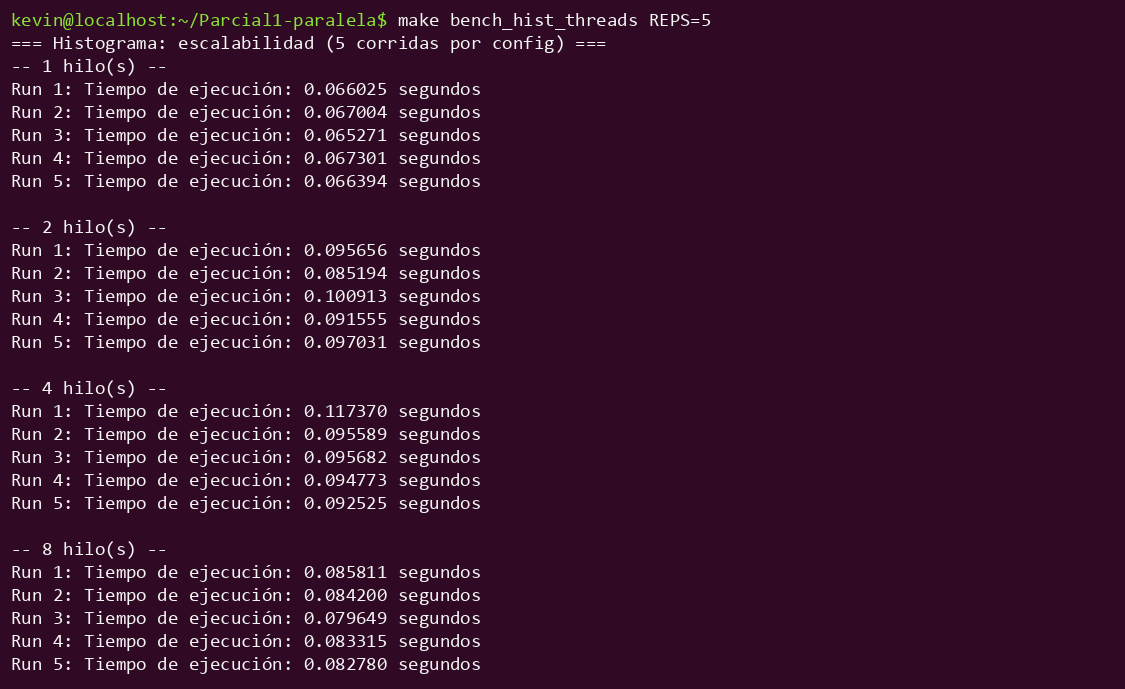
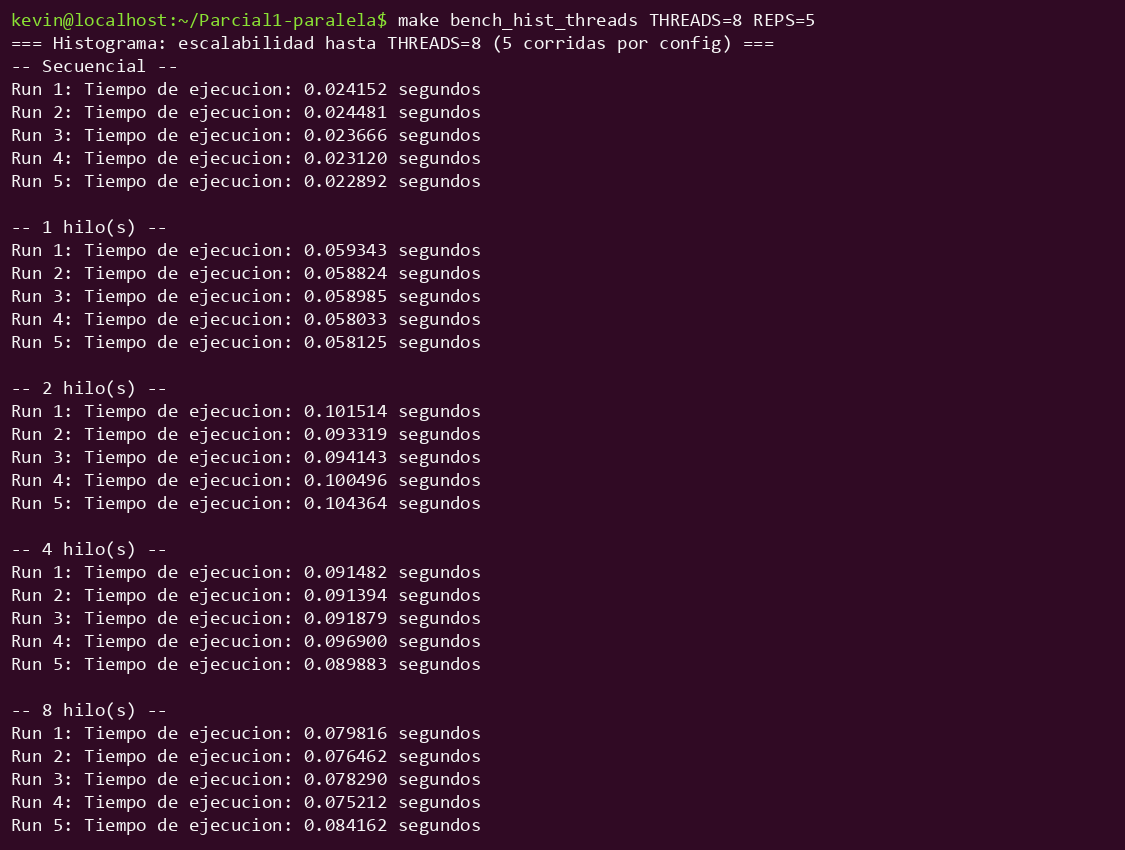
docs: normalizar metricas y benchmarks

Changed region(s): [[0.0, 0.0, 0.7156, 1.0]]

diff --git a/secuencial/histograma_secuencial.c b/secuencial/histograma_secuencial.c
@@ -1,3 +1,5 @@
+#define _POSIX_C_SOURCE 200809L
+
 #include <stdio.h>
 #include <stdlib.h>
 #include <time.h>
@@ -21,7 +23,9 @@ int main() {
         arreglo[j] = ((float)rand() / RAND_MAX) * 100.0f;
     }
 
-    clock_t inicio = clock();
+    struct timespec inicio;
+    struct timespec fin;
+    clock_gettime(CLOCK_MONOTONIC, &inicio);
 
     // PRIMER CICLO 
   
@@ -50,8 +54,9 @@ int main() {
     }
 
 
-    clock_t fin = clock();
-    double tiempo = (double)(fin - inicio) / CLOCKS_PER_SEC;
+    clock_gettime(CLOCK_MONOTONIC, &fin);
+    double tiempo = (fin.tv_sec - inicio.tv_sec) +
+                    (fin.tv_nsec - inicio.tv_nsec) / 1000000000.0;
 
 
     long total = 0;

diff --git a/docs/METRICAS_KEVIN.md b/docs/METRICAS_KEVIN.md
@@ -1,166 +1,114 @@
-# Métricas de Desempeño - Multiplicación de Matrices Densas
+# Métricas de desempeño de Kevin Villagrán
 
-**Estudiante:** Kevin Villagrán  
-**Fecha de Pruebas:** 2026-09-09  
-**Máquina:** Laptop Windows  
-**CPU:** 12th Gen Intel Core i7-12650H (10 cores físicos / 16 hilos lógicos)  
-**RAM:** 15.7 GB  
-**Sistema Operativo:** Windows 11 Home (10.0.26200)  
+Fecha de pruebas 2026-09-11
 
----
+Máquina Laptop Windows con WSL Ubuntu
 
-## Datos de Prueba
+CPU 12th Gen Intel Core i7-12650H con 10 núcleos físicos y 16 hilos lógicos
 
-- **N (dimensión de las matrices):** 1000 x 1000
-- **Elementos por matriz:** 1,000,000
-- **Operaciones:** 2 x N³ = 2,000,000,000 flops
-- **Tipo de dato:** `double`
-- **Generación:** `rand() % 10` con seed=42
-- **Algoritmo:** C = A x B, triple ciclo anidado (orden i-j-k) según el diagrama de flujo
-- **Descomposición:** por bloques de filas de C entre P trabajadores (`schedule(static)`)
+RAM 15.7 GB
+
+Sistema operativo Windows 11 Home
 
 ---
 
-## Resultados: Versión Secuencial
+# Histograma
 
-Baseline medido con el mismo binario ejecutado con **P=1 trabajador**, para que
-secuencial y paralelo compartan datos, compilador y banderas de optimización.
+## Datos de prueba
 
-| Métrica | Valor |
-|---------|-------|
-| Tiempo promedio (ms) | 588.804 |
-| Desv. Estándar (ms) | 16.444 |
-| Mínimo (ms) | 565.708 |
-| Máximo (ms) | 610.385 |
+- N de 10,000,000 elementos
+- 100 bins
+- Valores generados con `rand()` y semilla 42
+- 5 corridas por cada cantidad de hilos
+- Hilos probados 1, 2, 4 y 8
 
-### Detalles de ejecuciones
+## Resultados
 
+| Configuración | Tiempo promedio en segundos | Desv. estándar | Speedup | Eficiencia |
+|---|---|---|---|---|
+| Secuencial | 0.023662 | 0.000670 | Base | Base |
+| Paralelo P=1 | 0.058662 | 0.000565 | 0.403x | 40.34% |
+| Paralelo P=2 | 0.098767 | 0.004820 | 0.240x | 11.98% |
+| Paralelo P=4 | 0.092308 | 0.002677 | 0.256x | 6.41% |
+| Paralelo P=8 | 0.078788 | 0.003478 | 0.300x | 3.75% |
+
+## Captura
+
+![Corridas de histograma](./img/histogramaKevin.png)
+
+## Speedup y eficiencia
+
+Para cada punto se usó el tiempo promedio secuencial como base. El speedup se
+calculó con `Ts / Tp`. La eficiencia se calculó con `speedup / P × 100`.
+
+El secuencial tardó 0.023662 segundos en promedio. Con 8 hilos el paralelo
+tardó 0.078788 segundos. El speedup fue 0.300x. El paralelo quedó más lento en
+todas las cantidades de hilos medidas.
+
+El segundo recorrido actualiza solo 100 bins compartidos. `atomic` cuida los
+conteos. Varios hilos esperan cuando intentan sumar en el mismo bin. Por eso
+el tiempo paralelo no mejora para este programa.
+
+![Speedup de histograma](./graficas/histograma_speedup_kevin.png)
+
+![Eficiencia de histograma](./graficas/histograma_eficiencia_kevin.png)
+
+---
+
+# Matrices
+
+## Datos de prueba
+
+- Matrices de 1000 × 1000
+- 1,000,000 de elementos por matriz
+- Datos `double` generados con `rand() % 10` y semilla 42
+- 5 corridas por cada cantidad de trabajadores
+- Trabajadores probados 1, 2, 4 y 8
+
+## Resultados
+
+| Configuración | Tiempo promedio en segundos | Desv. estándar | Speedup | Eficiencia |
+|---|---|---|---|---|
+| Secuencial | 0.776906 | 0.145886 | Base | Base |
+| Paralelo P=1 | 0.756862 | 0.089570 | 1.026x | 102.65% |
+| Paralelo P=2 | 0.372490 | 0.020575 | 2.086x | 104.29% |
+| Paralelo P=4 | 0.254467 | 0.042495 | 3.053x | 76.33% |
+| Paralelo P=8 | 0.217223 | 0.017212 | 3.577x | 44.71% |
+
+## Captura
+
+![Corridas de matrices](./img/matricesKevin.png)
+
+## Speedup y eficiencia
+
+Para cada punto se usó el tiempo promedio secuencial como base. El speedup se
+calculó con `Ts / Tp`. La eficiencia se calculó con
+`speedup / P × 100`.
+
+El secuencial tardó 0.776906 segundos en promedio. Con 8 trabajadores el
+tiempo bajó a 0.217223 segundos. El speedup fue 3.577x. La curva medida sube
+al aumentar trabajadores, pero queda debajo de la línea ideal.
+
+Con 1 y 2 trabajadores la eficiencia medida pasó de 100 por ciento. Los
+tiempos cambian entre corridas por tareas del sistema, frecuencia del
+procesador y memoria. No significa que se aprovechó más de lo ideal.
+
+Cada trabajador escribe filas diferentes de la matriz resultado. Eso permite
+que el trabajo se reparta mejor que en el histograma. Con 8 trabajadores la
+eficiencia baja porque comparten memoria y todos leen la matriz B.
+
+![Speedup de matrices](./graficas/matrices_speedup_kevin.png)
+
+![Eficiencia de matrices](./graficas/matrices_eficiencia_kevin.png)
+
+El checksum fue 20258545518 en todas las configuraciones. Eso confirma que la
+matriz resultado fue la misma.
+
+---
+
+# Comandos usados
+
+```bash
+make bench_hist_threads REPS=5
+make bench_mat_reps N=1000 P=8 REPS=5
 ```
-Run 1: 565.708 ms
-Run 2: 584.953 ms
-Run 3: 596.643 ms
-Run 4: 610.385 ms
-Run 5: 586.329 ms
-```
-
----
-
-## Resultados: Versión Paralela (8 threads)
-
-| Métrica | Valor |
-|---------|-------|
-| Tiempo promedio (ms) | 167.290 |
-| Desv. Estándar (ms) | 14.456 |
-| Mínimo (ms) | 155.790 |
-| Máximo (ms) | 187.285 |
-| Speedup | 3.5197 |
-| Eficiencia | 0.4400 |
-
-### Detalles de ejecuciones
-
-```
-Run 1: 178.078 ms
-Run 2: 155.790 ms
-Run 3: 158.529 ms
-Run 4: 156.766 ms
-Run 5: 187.285 ms
-```
-
----
-
-## Escalabilidad: tiempo vs. número de trabajadores
-
-Promedio de 3 ejecuciones por configuración, N=1000.
-
-| P (trabajadores) | Tiempo (s) | Speedup | Eficiencia |
-|------------------|-----------|---------|------------|
-| 1  | 0.6107 | 1.000 | 100.0% |
-| 2  | 0.3165 | 1.930 | 96.5% |
-| 4  | 0.1975 | 3.093 | 77.3% |
-| 8  | 0.1473 | 4.147 | 51.8% |
-| 10 | 0.1603 | 3.810 | 38.1% |
-| 16 | 0.1979 | 3.087 | 19.3% |
-
-**Punto óptimo: P=8** (speedup 4.15x). A partir de ahí el rendimiento se degrada.
-
----
-
-## Análisis y Conclusiones
-
-### Speedup Observado
-
-**3.52x con 8 threads** — La versión paralela es **~3.5 veces MÁS RÁPIDA** que la secuencial,
-con un pico de **4.15x** en la medición de escalabilidad.
-
-A diferencia del histograma, aquí la paralelización **sí es rentable**, porque el trabajo
-por hilo (N²/P elementos, cada uno con N multiplicaciones) es órdenes de magnitud mayor
-que el overhead de crear los threads.
-
-### Razones del Desempeño
-
-**Factores Positivos (explican el speedup real):**
-- [x] **Cero sincronización en el ciclo caliente:** cada trabajador escribe únicamente las filas de C que le fueron asignadas, así que no hace falta `atomic` ni `critical`
-- [x] **B es de solo lectura:** compartida entre todos los hilos sin riesgo de condición de carrera
-- [x] **Granularidad gruesa:** con N=1000 y P=8, cada hilo hace 125 filas x 1000 columnas x 1000 productos = 125M operaciones, muy por encima del costo de crear el thread
-- [x] **Sin desbalance de carga:** todas las filas cuestan exactamente lo mismo, por lo que `schedule(static)` reparte perfecto y no hay hilos ociosos
-- [x] **Sin false sharing:** los bloques de filas son contiguos y grandes, cada hilo trabaja en líneas de cache distintas
-- [x] **Resultados idénticos en ambas versiones** (checksum = 20,224,732,496 en las 10 ejecuciones)
-
-**Factores Negativos (explican por qué no llega a 8x):**
-- [x] **Límite de ancho de banda de memoria:** el acceso `B[k*n+j]` recorre B por columnas, saltando N*8 bytes por iteración; los hilos saturan el bus de memoria antes de saturar los cores
-- [x] **Cores híbridos (P-cores + E-cores):** el i7-12650H tiene 6 P-cores y 4 E-cores; los E-cores son más lentos y con `schedule(static)` reciben la misma cantidad de filas, así que los P-cores terminan y esperan en la barrera
-- [x] **Hyperthreading no aporta:** de P=10 a P=16 se usan hilos lógicos que comparten unidades de ejecución, y el tiempo empeora (0.160 s → 0.198 s)
-
-### ¿Por qué la eficiencia cae de 96.5% a 19.3%?
-
-1. **P=2 y P=4 escalan casi ideal** (96.5% y 77.3%): hay P-cores físicos libres y ancho de banda suficiente.
-
-2. **P=8 ya cruza al territorio de E-cores** (51.8%): la barrera implícita del `parallel for` hace que todos esperen al hilo más lento.
-   ```
-   Speedup ideal con 8:  8.00x
-   Speedup obtenido:     4.15x
-   Pérdida:              núcleos heterogéneos + ancho de banda
-   ```
-
-3. **P=16 usa hyperthreading** (19.3%): dos hilos por core físico compiten por la misma FPU, sin ganancia real y con más overhead de scheduling.
-
----
-
-## Conclusión
-
-El análisis demuestra que **la paralelización es técnicamente correcta y económicamente rentable** para este problema. Es el caso opuesto al histograma: aquí la razón trabajo/overhead es alta y no existe contención entre hilos, así que el speedup es real y sostenido.
-
-### Recomendaciones para mejorar
-
-1. **Cambiar el orden de ciclos a i-k-j** → B se recorre por filas (secuencial en memoria) en vez de por columnas, mejorando el uso de cache drásticamente
-   ```c
-   // En lugar de acumular en 'suma' con B[k*n+j] saltando por columnas:
-   for (int k = 0; k < n; k++) {
-       double a = A[fila*n + k];
-       for (int j = 0; j < n; j++)
-           C[fila*n + j] += a * B[k*n + j];   // acceso contiguo a B
-   }
-   ```
-2. **Usar `schedule(dynamic)` o `guided`** → compensa que los E-cores sean más lentos que los P-cores
-3. **Bloqueo por tiles (cache blocking)** → dividir en submatrices que quepan en L2 para reducir el tráfico a RAM
-4. **Limitar a P=8** en esta máquina → es el punto óptimo; más threads empeoran el tiempo
-5. **Aumentar N a 2000-4000** → más trabajo por hilo amortiza aún mejor el overhead
-
----
-
-## Validación de Corrección
-
-✅ **Secuencial (P=1):** Checksum = 20,224,732,496  
-✅ **Paralelo (P=8):** Checksum = 20,224,732,496  
-✅ **Matrices idénticas:** Sí (checksum estable en las 10 ejecuciones y en P=1,2,4,8,10,16)
-
----
-
-## Notas Técnicas
-
-- Compilador: `clang -O3 -fopenmp` (el `gcc-16` del Makefile no está disponible en Windows; el gcc de MSYS2 falla al invocar `cc1.exe` en esta máquina)
-- Medición: `omp_get_wtime()` alrededor del `parallel for` únicamente; no incluye reserva de memoria ni llenado de las matrices
-- Múltiples runs: 5 por versión para capturar variabilidad, 3 por punto en la tabla de escalabilidad
-- Desviación estándar muestral (n-1)
-- Run 5 paralelo (187 ms) fue la más alta, posiblemente scheduling del SO sobre los E-cores
-- El checksum sirve como verificación de que la paralelización no altera el resultado
